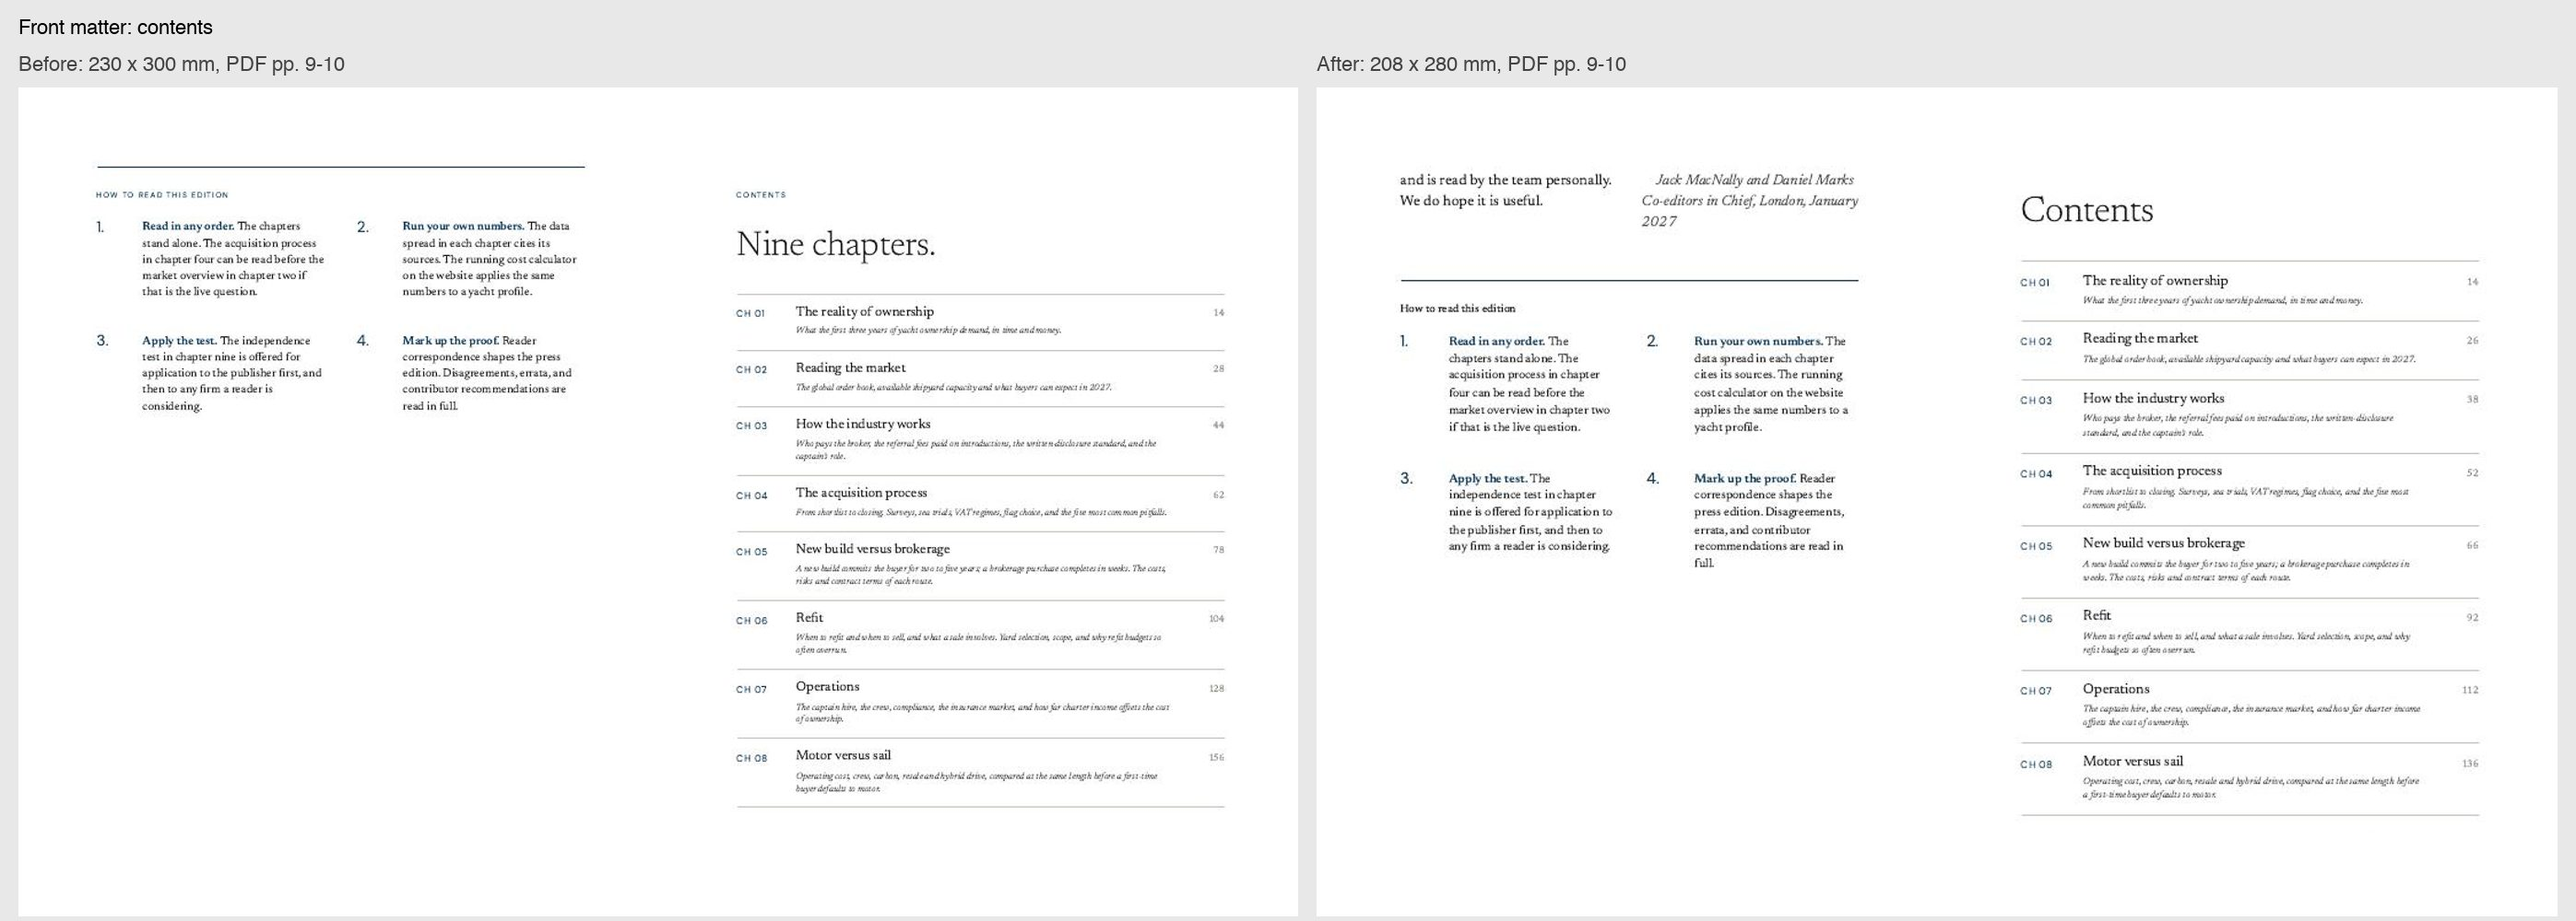
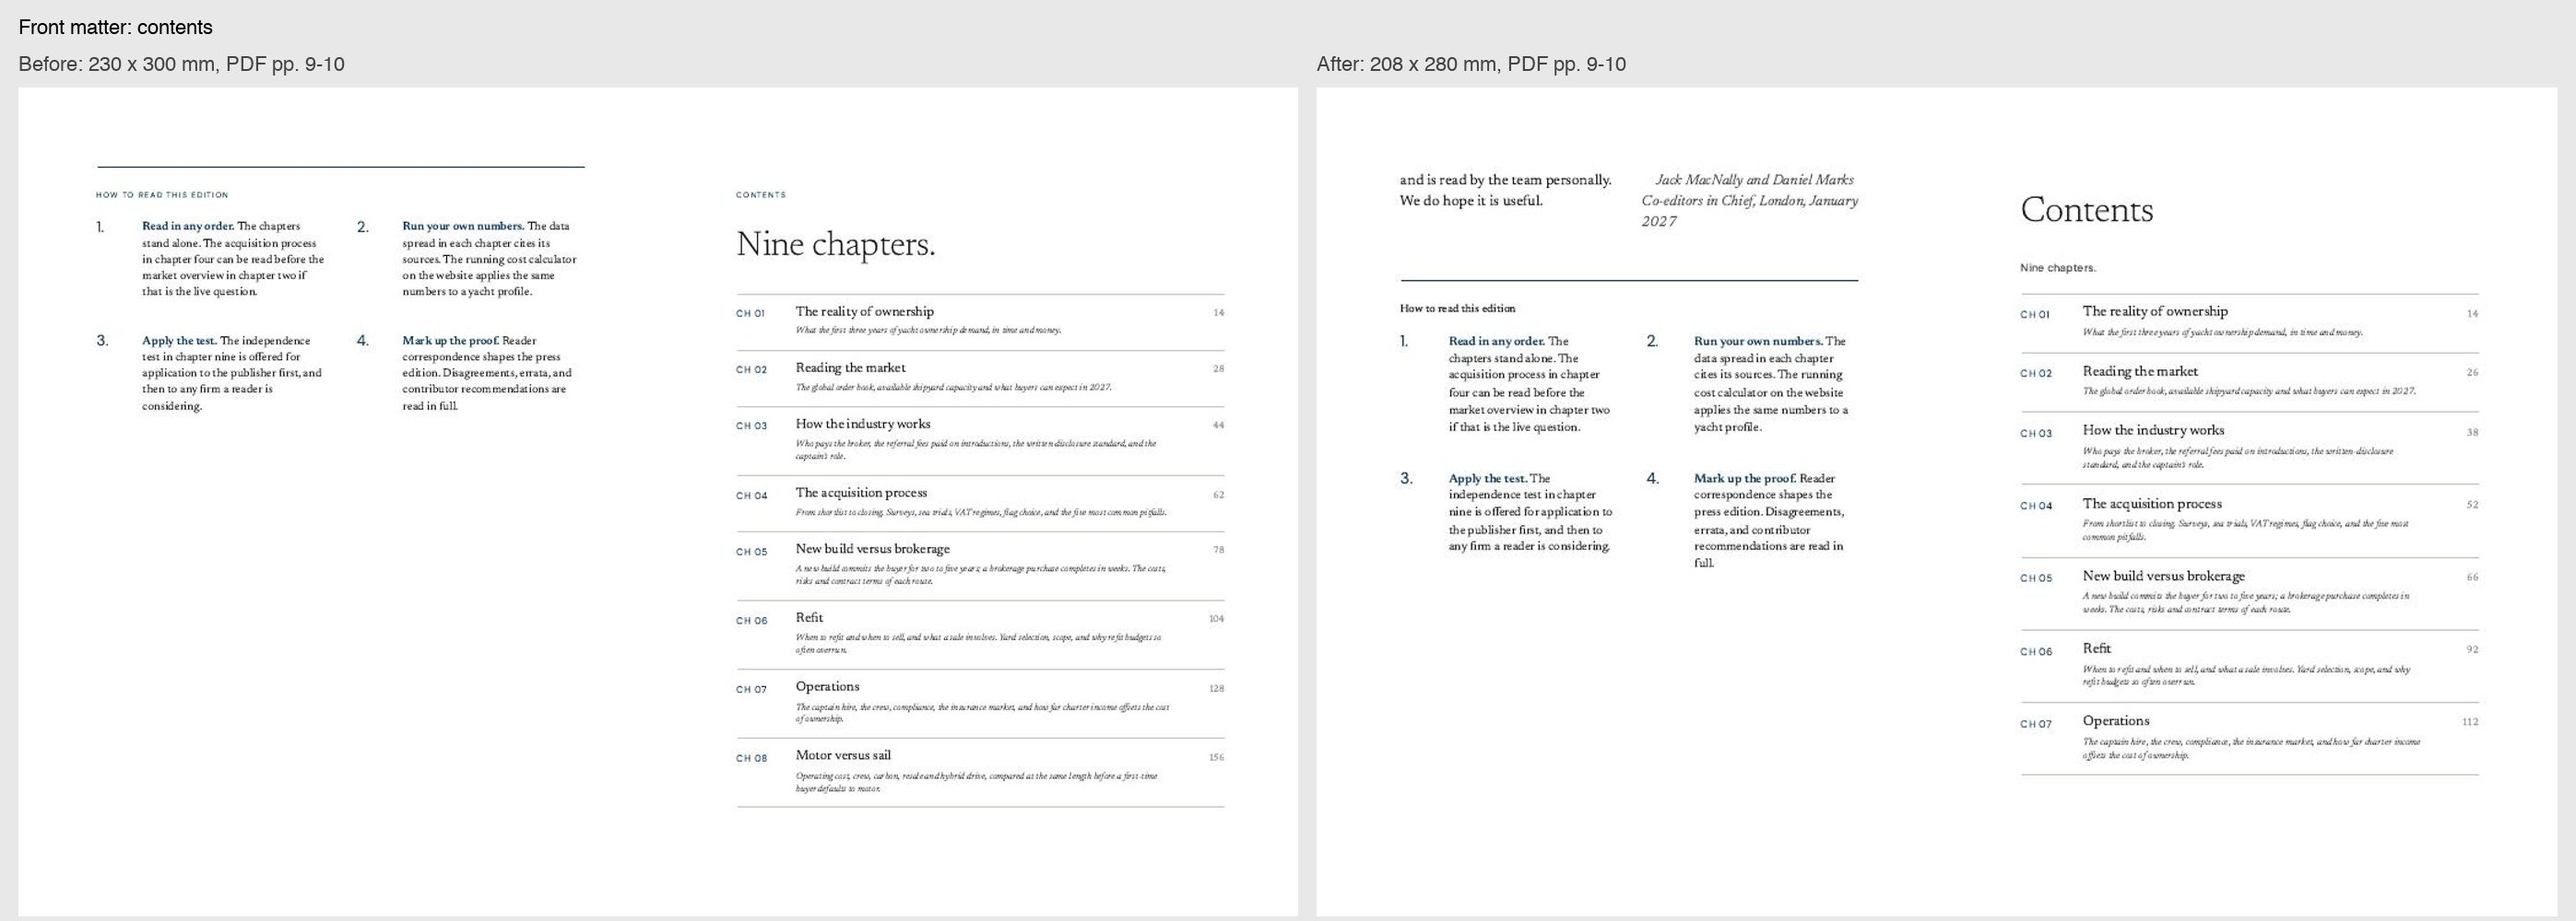
Print revision 2: registers updated to the final proof (185 pp, 184-page block, six opener spacers)

Changed region(s): [[0.7785, 0.279, 0.9653, 0.868]]

diff --git a/print/revision-2/exceptions-register.md b/print/revision-2/exceptions-register.md
@@ -4,13 +4,13 @@ Problems found during the layout pass that cannot be resolved without changing a
 
 | No. | Page | Issue | Options | Decision |
 |---|---|---|---|---|
-| E1 | 19–21, 32–35, 47–49, 60–62, 104–108, 128–133, 147–149 | **Tables dropped in print where a chart of the same data follows.** A rule from August ("one form per dataset") prints only the chart in thirteen places: ch01 (operating cost by size; where the money goes; depreciation), ch02 (wealth creation; order book; brokerage H1 2026), ch03 (who the buyer is; two commission scales), ch04 (VAT rates), ch06 (refit cost per metre), ch07 (captain pay), ch08 (operating cost 50 m; EU ETS exposure). Under the brief's content lock this is a removal of approved material. Where a table holds values or notes the chart does not show, the print loses them. | (a) Keep the rule, after an editor confirms each chart carries every value in its table. (b) Print table and chart together, about 6–8 pages. (c) Decide per chapter. | |
+| E1 | 19–21, 32–35, 47–49, 60–62, 104–109, 128–133, 148–150 | **Tables dropped in print where a chart of the same data follows.** A rule from August ("one form per dataset") prints only the chart in thirteen places: ch01 (operating cost by size; where the money goes; depreciation), ch02 (wealth creation; order book; brokerage H1 2026), ch03 (who the buyer is; two commission scales), ch04 (VAT rates), ch06 (refit cost per metre), ch07 (captain pay), ch08 (operating cost 50 m; EU ETS exposure). Under the brief's content lock this is a removal of approved material. Where a table holds values or notes the chart does not show, the print loses them. | (a) Keep the rule, after an editor confirms each chart carries every value in its table. (b) Print table and chart together, about 6–8 pages. (c) Decide per chapter. | |
 | E2 | 47 (53) | **Ch03 data: the note repeats the introduction.** The boxed note under "Who the buyer is, and who advises them" restates the spread's standfirst nearly word for word ("Many first-time buyers reach this market through a family office…"). Layout cannot resolve it without cutting copy. | Cut the note, or rewrite one of the two. | |
 | E3 | 19–20 (22) | **Stacked cost-allocation bar for a 50 m yacht.** Each segment is a percentage range (crew 30 to 40, maintenance 14 to 18, and so on), drawn as a single 100 per cent bar. The ranges sum to 82–133 per cent, so the bar cannot show them truthfully; the segment widths are a hidden choice of midpoints. | Redraw as range bars (one row per cost line, the bar spanning the range), like figure 01.01. Substance unchanged, representation changed. | |
 | E4 | 21 (23) | **Depreciation chart.** The shaded band and the three source lines read as one forecast. The notes state the sources disagree and that "neither broker gives a figure after year five", but the chart extends no line past year five, so the point is not visible on the chart. | Label each line at its end with source and date; mark year five as the limit of published data. Representation only. | |
 | E5 | 75 and other interviews | **Interview biographies repeat the role line.** The printed introduction joins the contributor's role ("Secretary General, Superyacht Alliance…") with an intro that restates it ("Hein Velema is Secretary General of the Superyacht Alliance…"). Most pronounced for Velema, Maltby and Roberts. | Print the role line only above the name, or trim the intro's first sentence. | |
 | E6 | 4 and 10–11 | **Two chapter lists in the front matter.** The title page lists the nine chapters, and the contents page lists them again with standfirsts and folios. | Keep both; or drop the title-page list, which saves no page but quietens the title page. | |
-| E7 | 45, 58, 123, 145 | **Captain Pavlos Filippakis is interviewed in four chapters** (03, 04, 07, 08), about 2,500 words in all. Not a layout fault, but a reader of the book will meet the same voice four times. | Keep; merge into one interview; or keep one and move the others to the web edition. | |
-| E8 | 174–176 | **Printed index is the automatic working index**, labelled "(working)". It cannot be relied on for page references at this stage. | Commission an indexer against the final proof; or print it as it stands with the label. | |
+| E7 | 45, 58, 123, 146 | **Captain Pavlos Filippakis is interviewed in four chapters** (03, 04, 07, 08), about 2,500 words in all. Not a layout fault, but a reader of the book will meet the same voice four times. | Keep; merge into one interview; or keep one and move the others to the web edition. | |
+| E8 | 176–178 | **Printed index is the automatic working index**, labelled "(working)". It cannot be relied on for page references at this stage. | Commission an indexer against the final proof; or print it as it stands with the label. | |
 | E9 | 9 | **Contents carries the index as "Index (working)"** with a standfirst saying an indexer will re-set it. This text will be wrong once a decision on E8 is made. | Follows from E8. | |
-| E10 | Whole book | **Page count.** 182-page block (184 for press) against the 150–160 target set before the brief. The brief's content lock makes the target unreachable by layout alone; the remaining route is the editorial cut already listed (interviews capped at about 900 words, saving about 10 pages; essays 05–07 trimmed, about 5 pages). | Hold at 184, or approve the cuts. | |
+| E10 | Whole book | **Page count.** 184-page block (184 for press) against the 150–160 target set before the brief. The brief's content lock makes the target unreachable by layout alone; the remaining route is the editorial cut already listed (interviews capped at about 900 words, saving about 10 pages; essays 05–07 trimmed, about 5 pages). | Hold at 184, or approve the cuts. | |

diff --git a/print/revision-2/change-register.md b/print/revision-2/change-register.md
@@ -1,6 +1,6 @@
 # Change register, second layout revision
 
-Against the design agent brief of 14 November 2026. "Before" pages are PDF pages of the 208-page proof the brief was written against (230 × 300 mm, commit c9d8191, cover = p. 1). "After" pages are PDF pages of the revised proof (208 × 280 mm, 183 pages with cover), `print/1st-edition/firstownersreference-1st-edition-proof.pdf`. Representative spreads are in `comparisons/`.
+Against the design agent brief of 14 November 2026. "Before" pages are PDF pages of the 208-page proof the brief was written against (230 × 300 mm, commit c9d8191, cover = p. 1). "After" pages are PDF pages of the revised proof (208 × 280 mm, 185 pages with cover), `print/1st-edition/firstownersreference-1st-edition-proof.pdf`. Representative spreads are in `comparisons/`.
 
 No copy, figure, chart value, table, reference or disclosure was changed in this pass. The last column says whether the change needs editorial approval.
 
@@ -10,7 +10,7 @@ No copy, figure, chart value, table, reference or disclosure was changed in this
 |---|---|---|---|---|
 | Whole book | Trim 230 × 300 mm in the brief; 208 × 280 mm confirmed by Jack on 14 November | Built at 208 × 280 mm, 3 mm bleed, type area 172 × 238 mm, inner margin 22 mm, outer 14 mm | Whole book | Decided |
 | Whole book | Proofs from May to November printed at about 70 per cent: one unbreakable URL in the sources was wider than the page and Chrome shrank every page to fit | Sources cited by domain only; the build now refuses to print if anything is wider than the type area | Whole book | Decided |
-| Whole book | 208 pp | 182-page block, 183 with cover, press block padded to 184 (23 sections of eight). Every page of content retained, including all data sections and the index | Whole book | None |
+| Whole book | 208 pp | 184-page block, 185 with cover; the press block is 184 pages, 23 sections of eight, with no padding. Every page of content retained, including all data sections and the index | Whole book | None |
 
 ## Composition and rhythm (brief section 3)
 
@@ -19,7 +19,7 @@ No copy, figure, chart value, table, reference or disclosure was changed in this
 | All text pages | Paragraphs could not break across columns, so any paragraph longer than the space left jumped whole and left the foot of the column empty | Paragraphs flow across columns and pages, with two-line widows and orphans | All | None |
 | All chapters | Four full-page photographs inside every chapter, which clumped into runs of two and three | None inside chapters; the nine chapter openers are unchanged | All | None |
 | Essays | Small photographs dropped between paragraphs at a fixed cadence | One picture across both columns per essay, placed before a crosshead and sized by the build to the space left on its page | All essays | None |
-| 25–26, 39–40, 67–68, 113–114 | A picture at the foot of each case jumped onto a page of its own and forced a blank page before the next opener | No picture after the case. The chapter card closes the chapter | 26, 38, 52, 66 | None |
+| 25–26, 39–40, 67–68, 113–114 | A picture at the foot of each case jumped onto a page of its own and forced a blank page before the next opener | No picture after the case. The chapter card closes the chapter, followed by a blank page only where the next opener needs it | End of each chapter | None |
 | Chapter ends | Two mostly empty close pages per chapter (a picture page and an at-a-glance page) | One card at the foot of the case: sections in the chapter, about the cases, read next. The copy is unchanged | End of each chapter | None |
 | 21–24 | Data pages each carried one chart and were otherwise empty | Charts held to 92 mm, method notes set in two columns under the chart, chart headings bound to their charts. Two charts now share a page where they fit | 19–22 | None |
 | 23 | A four-row table split, leaving one row on the next page | Tables of eight rows or fewer are kept whole; longer tables break between rows with the head repeated | 21 | None |
@@ -53,9 +53,9 @@ No copy, figure, chart value, table, reference or disclosure was changed in this
 
 | Before | Issue | Adjustment | After | Approval |
 |---|---|---|---|---|
-| 44 | Chapter 03 opened out of sequence with the other chapters | Every opener now falls on a left-hand page with the essay opening on the facing right-hand page; the build verifies parity and inserts a blank page where needed (four in the book: before ch01, ch02, ch05 and ch07) | 15, 27, 39, 53, 67, 93, 113, 137, 153 | None |
+| 44 | Chapter 03 opened out of sequence with the other chapters | Every opener now falls on a left-hand page with the essay opening on the facing right-hand page; the build verifies parity and inserts a blank page where needed (six in the book: before ch01, ch02, ch03, ch05, ch06 and ch09) | 15, 27, 39, 53, 67, 93, 113, 137, 155 | None |
 | Openers | "Chapter 05" label above the 05 numeral | Removed; numeral, title and standfirst unchanged | All openers | Decided |
-| Build | Page numbering never settled: picture fitting and opener spacers kept moving each other | Pictures are fitted on the first three passes and then held; the page map now settles at pass 4 | — | None |
+| Build | Page numbering never settled: picture fitting and opener spacers kept moving each other | Pictures are fitted on the first three passes and then held; the chapter spacers and contents folios now settle by pass 4 (a few foot-picture heights still adjust by a millimetre or two after that, which moves no page) | — | None |
 
 ## Front matter and navigation (brief section 9)
 

diff --git a/print/revision-2/prepress-report.md b/print/revision-2/prepress-report.md
@@ -8,10 +8,10 @@ State of the press files on 14 November 2026 and what remains before the book ca
 |---|---|---|
 | Trim | 208 × 280 mm portrait | Confirm the sheet and imposition for this trim |
 | Bleed | 3 mm all edges; TrimBox, BleedBox and ArtBox stamped on every page | Some printers ask for 5 mm on casebound work |
-| Type area | 172 × 238 mm; head 20, foot 22, inner 22, outer 14 mm (trim) | Gutter loss for Smyth-sewn casebinding at about 184 pp is normally 3–5 mm. 22 mm inner is safe; the binder should confirm |
+| Type area | 172 × 238 mm; head 20, foot 22, inner 22, outer 14 mm (trim) | Gutter loss for Smyth-sewn casebinding at 184 pp is normally 3–5 mm. 22 mm inner is safe; the binder should confirm |
 | Safe area | Nothing but full-bleed pictures within 6 mm of the trim | Confirm |
-| Extent | 182-page block; press block padded to 184 with two blank pages (23 sections of eight) | Signature size (8, 16 or 32) decides the padding. At 16-page sections the block would pad to 192 |
-| Blank pages | Four blank pages inserted so every chapter opener falls on a left-hand page (before ch01, ch02, ch05, ch07), plus the two pad pages at the end | Confirm the printer wants padding pages inside the PDF rather than added at imposition |
+| Extent | 184-page block, no padding needed (23 sections of eight) | Signature size (8, 16 or 32) decides the padding. At 16-page sections the block would pad to 192 |
+| Blank pages | Six blank pages inserted so every chapter opener falls on a left-hand page (before ch01, ch02, ch03, ch05, ch06 and ch09) | Confirm blank pages carry no folio or running head |
 
 ## Fonts
 

diff --git a/print/revision-2/README.md b/print/revision-2/README.md
@@ -2,7 +2,7 @@
 
 Response to the design agent brief of 14 November 2026 ("Second Layout Revision"), built at the 208 × 280 mm trim Jack confirmed the same day.
 
-- Revised proof: `print/1st-edition/firstownersreference-1st-edition-proof.pdf` (183 pp with cover; press block 184 pp). PDFs are not committed; rebuild with `node scripts/build-print.mjs`.
+- Revised proof: `print/1st-edition/firstownersreference-1st-edition-proof.pdf` (185 pp with cover; press block 184 pp). PDFs are not committed; rebuild with `node scripts/build-print.mjs`.
 - `comparisons/`: eight before-and-after spreads.
 - `change-register.md`: every adjustment, original and revised page, and whether it needs approval.
 - `exceptions-register.md`: ten problems that need an editorial decision.
